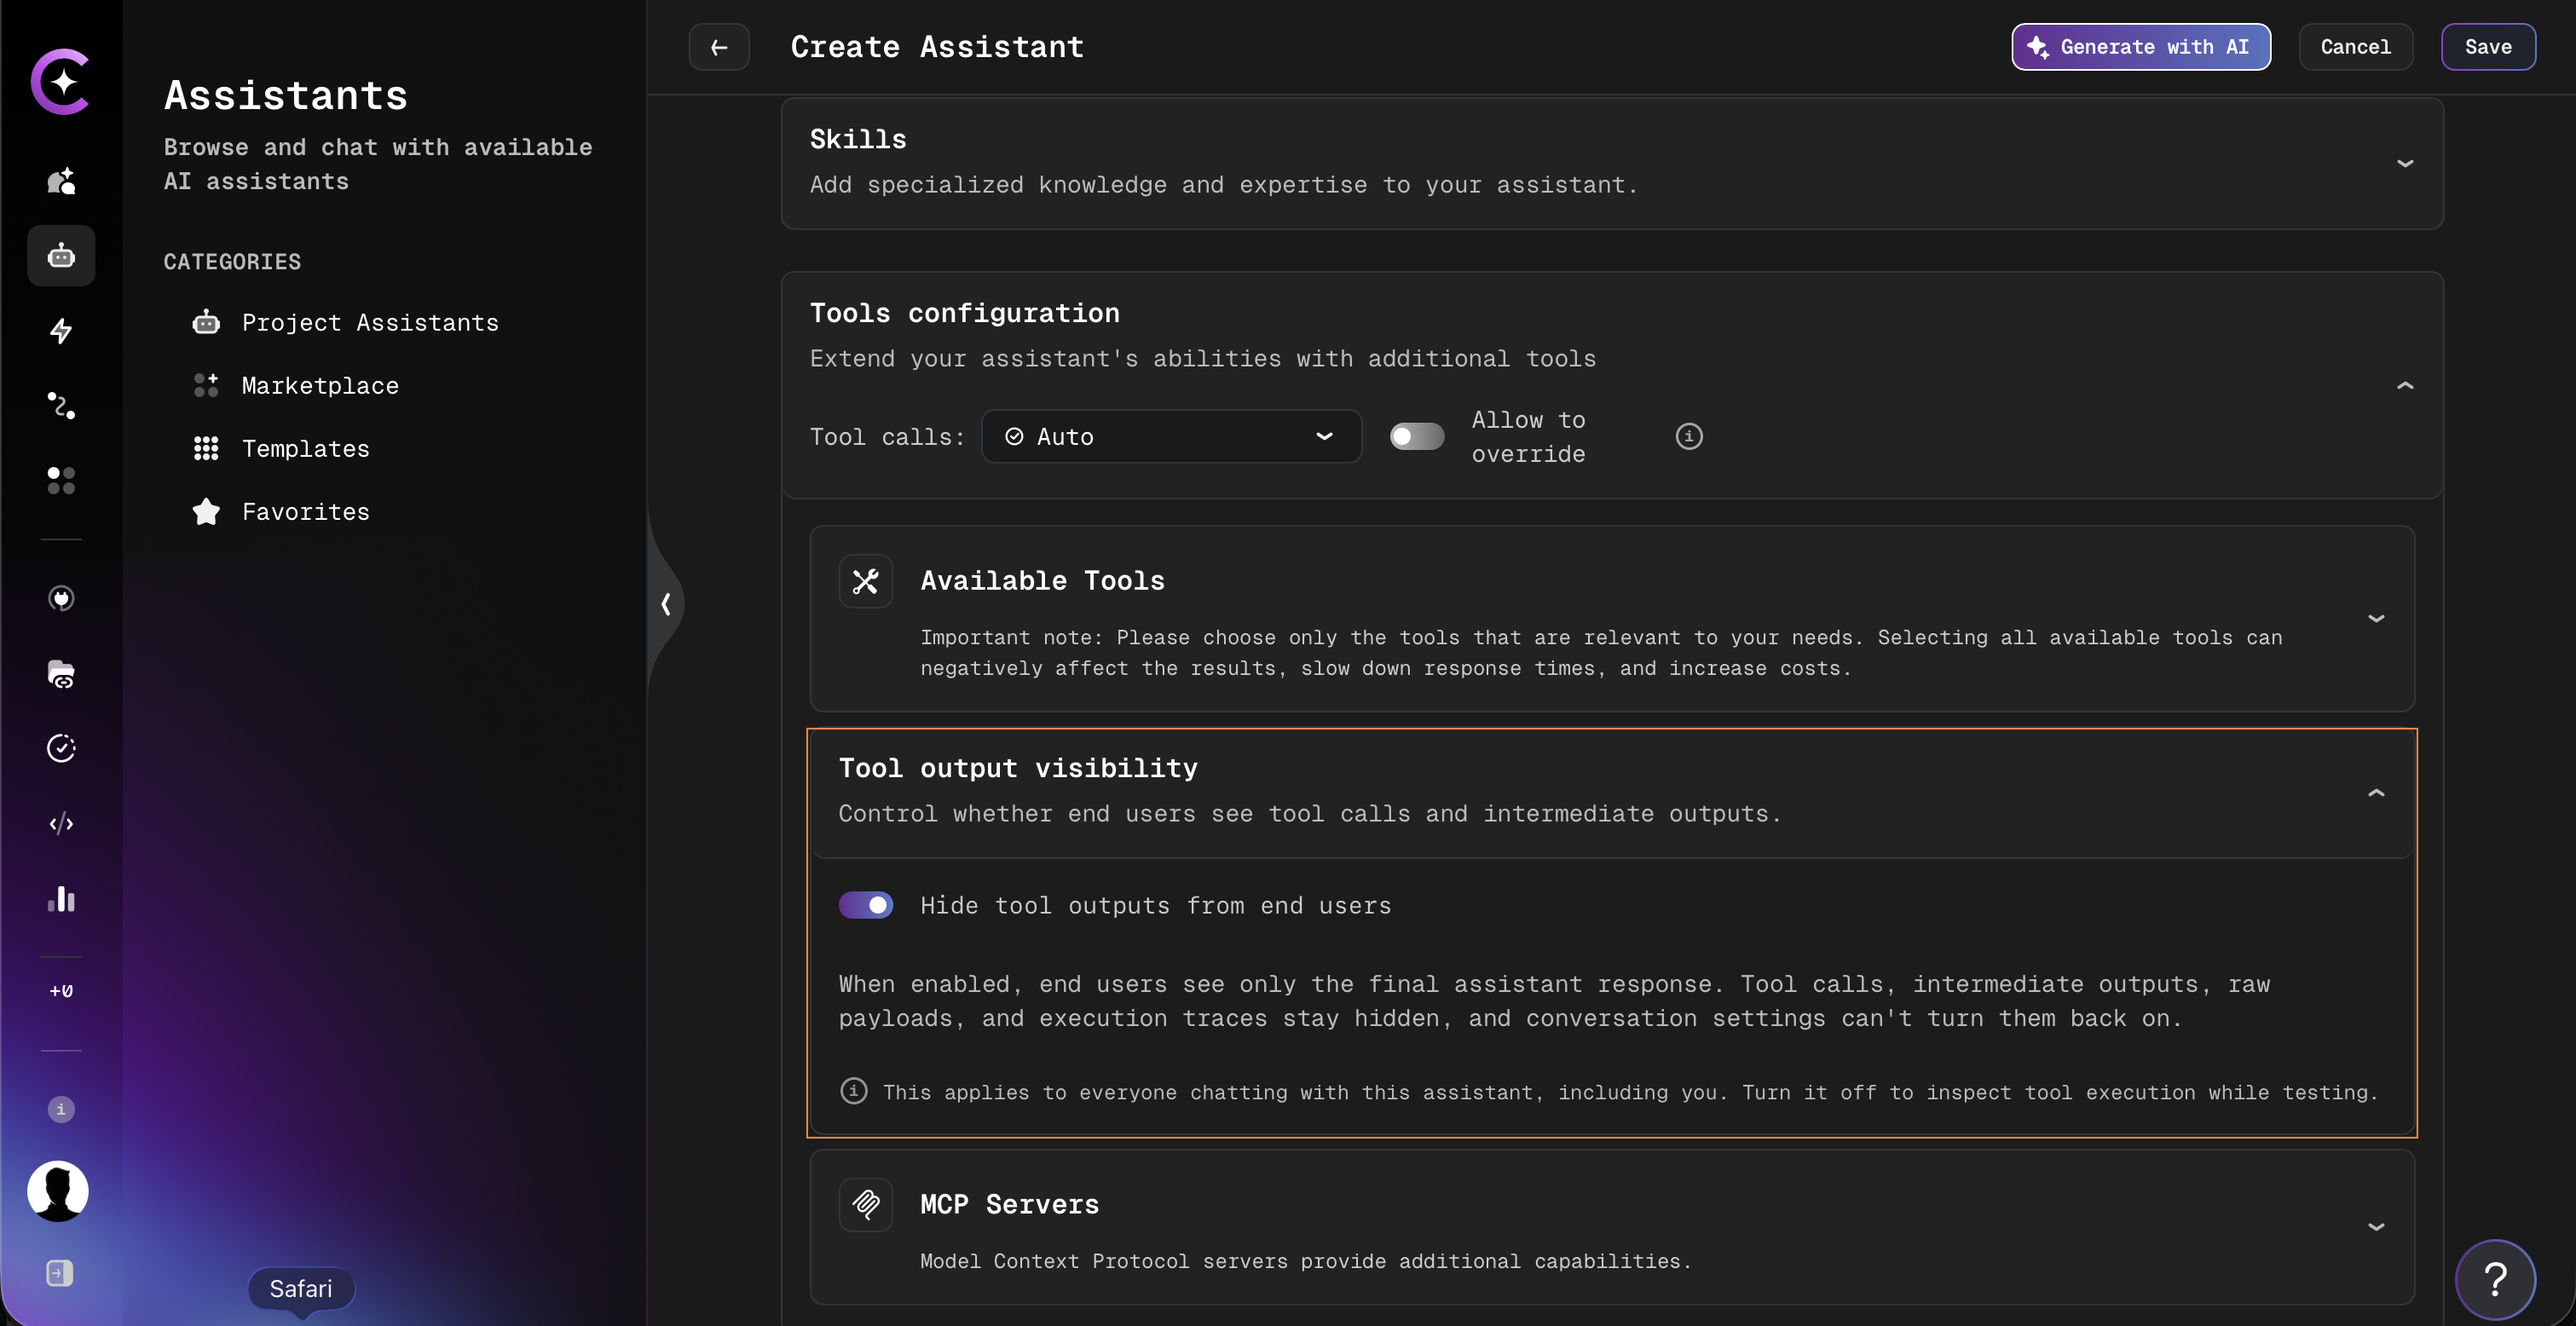
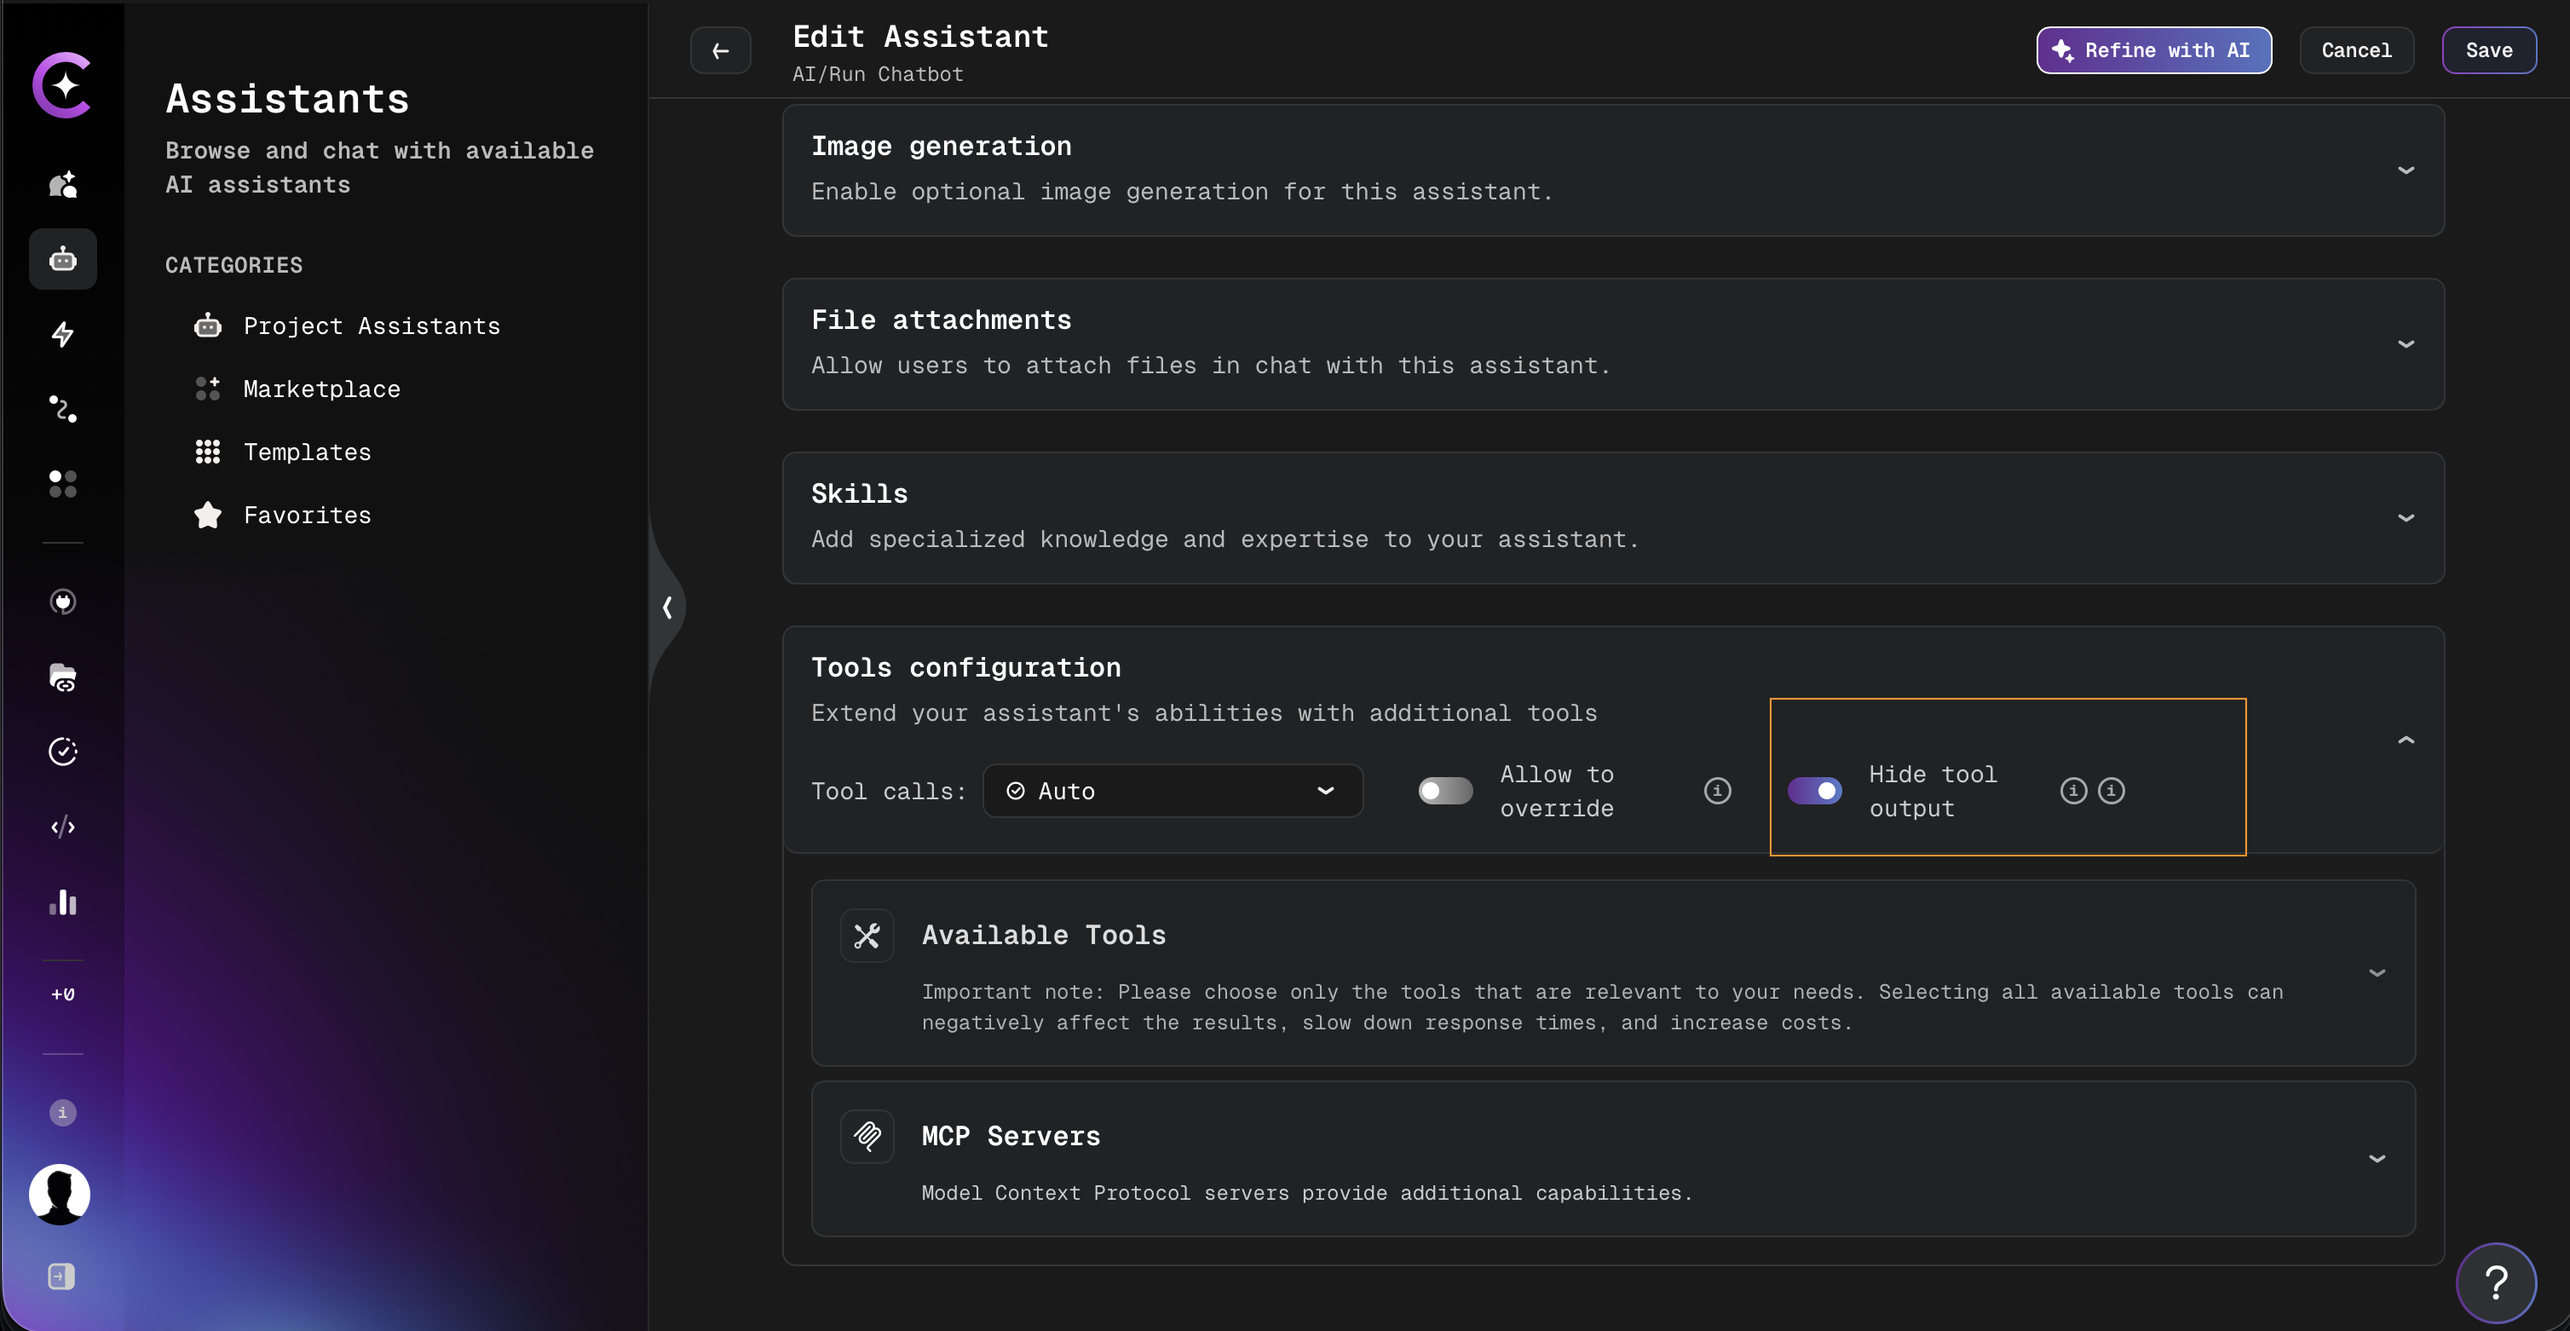
docs(user-guide): align tool output visibility docs with updated form
The "Tool output visibility" card was replaced by an inline "Hide tool
output" toggle in the Tools configuration header, with the helper text
and warning moved into tooltips. Update the section text, FAQ, and
screenshot accordingly.

Generated with AI

diff --git a/docs/user-guide/assistants/create-assistant.md b/docs/user-guide/assistants/create-assistant.md
@@ -225,25 +225,31 @@ continues to use each tool's own default limit.
 
 ## Tool Output Visibility
 
-The **Tool output visibility** section controls whether end users can see tool calls and
-intermediate outputs while chatting with the assistant. The setting is located inside the
-**Tools Configuration** area of the assistant configuration form, between **Available Tools**
-and **MCP Servers**, and is also available from the in-chat assistant editor.
+The **Hide tool output** toggle controls whether end users can see tool calls and
+intermediate outputs while chatting with the assistant. The toggle is located in the header of
+the **Tools configuration** section of the assistant configuration form, to the right of the
+**Allow to override** toggle, and is also available from the in-chat assistant editor. It is
+shown for all assistants, including those for which the **Tool calls** and **Allow to override**
+controls are not displayed.
 
-![Tool output visibility section in the assistant configuration form](./images/tool-output-visibility-section.png)
+![Hide tool output toggle in the Tools configuration section of the assistant form](./images/tool-output-visibility-section.png)
 
-The section contains a single **Hide tool outputs from end users** toggle:
+The toggle has two states:
 
 | State        | Behavior                                                                                                                                                                                                                      |
 | ------------ | ----------------------------------------------------------------------------------------------------------------------------------------------------------------------------------------------------------------------------- |
 | **Disabled** | Default. Conversation-level tool output settings behave as before; end users can still toggle tool output visibility per chat.                                                                                                |
 | **Enabled**  | End users see only the final assistant response. Tool calls, intermediate outputs, raw payloads, and execution traces stay hidden, and the per-conversation toggle is removed from the chat input toolbar for this assistant. |
 
-When enabled, an info box clarifies that the restriction applies to everyone chatting with
-the assistant, including its creator:
+Two info icons next to the toggle show tooltips on hover:
 
-> This applies to everyone chatting with this assistant, including you. Turn it off to
-> inspect tool execution while testing.
+- The first icon is always visible and explains that, when enabled, end users see only the
+  final assistant response, and that conversation settings cannot turn tool details back on.
+- The second icon appears only while the toggle is enabled and clarifies that the restriction
+  applies to everyone chatting with the assistant, including its creator:
+
+  > This applies to everyone chatting with this assistant, including you. Turn it off to
+  > inspect tool execution while testing.
 
 :::info
 Enforcement happens on the server, not only in the UI. Hidden tool details are stripped from

diff --git a/faq/how-to-hide-tool-outputs-from-end-users-in-an-assistant.md b/faq/how-to-hide-tool-outputs-from-end-users-in-an-assistant.md
@@ -1,6 +1,6 @@
 # How to hide tool outputs from end users in an assistant?
 
-In the assistant configuration form, open the **Tool output visibility** section in the Tools Configuration area and enable **Hide tool outputs from end users**. This is also available when editing the assistant from an active chat.
+In the assistant configuration form, enable the **Hide tool output** toggle in the header of the **Tools configuration** section, next to **Allow to override**. This is also available when editing the assistant from an active chat.
 
 Enforcement happens on the server: once enabled, tool calls, intermediate outputs, raw payloads, and execution traces are stripped from the chat response, conversation history, shared conversation pages, and exports for everyone chatting with the assistant, including the creator. The per-conversation tool output toggle in the chat input toolbar is removed for a flagged assistant and cannot turn outputs back on. The setting is OFF by default, and full tool outputs remain stored — only what is served to end users is filtered.
 
